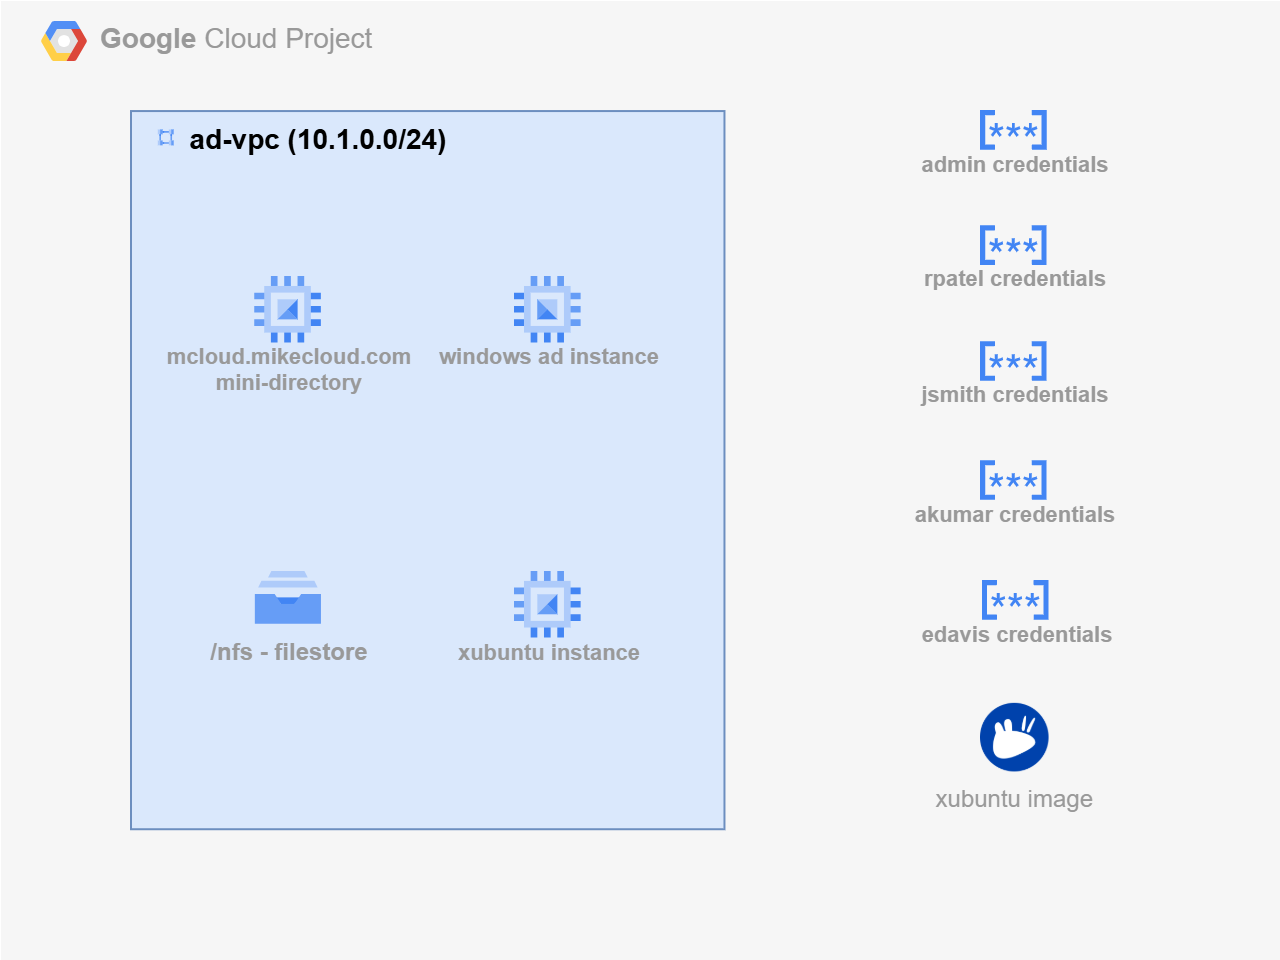
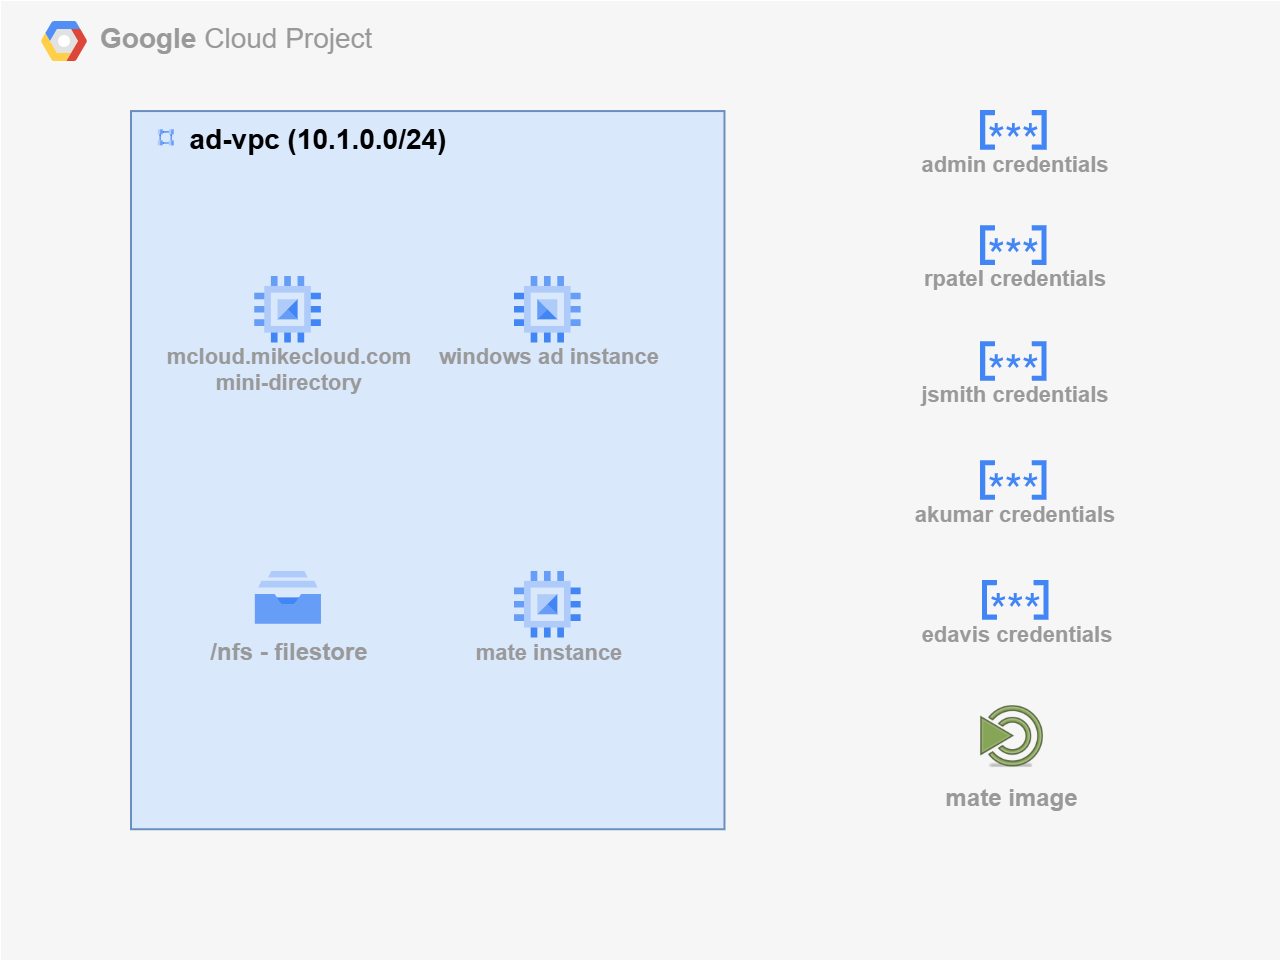
v1 of mate

Changed region(s): [[0.7188, 0.7188, 0.8438, 0.8438], [0.3438, 0.6562, 0.5, 0.6875]]

diff --git a/README.md b/README.md
@@ -1,7 +1,7 @@
-# Google Cloud Xubuntu XRDP Cloud Development Environment
+# Google Cloud MATE XRDP Cloud Development Environment
 
 This project provides a **complete cloud-based Linux desktop development environment**
-powered by **Xubuntu + XRDP**, **Mini-Active Directory**, and **Google Filestore (NFS)**
+powered by **MATE + XRDP**, **Mini-Active Directory**, and **Google Filestore (NFS)**
 on the **Google Cloud Platform (GCP)**.
 
 It is designed as a **universal dev workstation** that contains the full superset of
@@ -12,11 +12,11 @@ tools, dependencies, and configurations used across all build projects on my cha
 Instead of manually configuring a workstation for each tutorial, demo, or cloud
 project, this solution automatically provisions:
 
-1. **A Custom Xubuntu XRDP GCP Image (Packer)**
+1. **A Custom MATE XRDP GCP Image (Packer)**
    - Preloaded with Chrome, Firefox (deb), VS Code, Docker, KRDC, Postman
    - Includes all development tooling used across channel projects:
      **Packer, Terraform, Docker CLI, Azure CLI, AWS CLI v2, Google Cloud CLI**
-   - Snap-free, clean, lightweight Xfce desktop
+   - Snap-free, clean, lightweight MATE desktop
    - XRDP fully configured with all fixes, enhancements, and defaults
    - Desktop/panel icons, terminal emulator defaults, and `/etc/skel` customizations
 
@@ -25,8 +25,8 @@ project, this solution automatically provisions:
    - Domain users generated from a template with friendly passwords
    - Central authentication for Linux and Windows clients
 
-3. **Domain-Joined Xubuntu XRDP VM (Terraform)**
-   - Deploys the Xubuntu XRDP instance using the Packer-built GCP custom image
+3. **Domain-Joined MATE XRDP VM (Terraform)**
+   - Deploys the MATE XRDP instance using the Packer-built GCP custom image
    - Automatically joins the Mini-AD domain during boot
    - Ensures consistent user profiles and default settings through `/etc/skel`
 
@@ -39,7 +39,7 @@ The result is a **disposable, reproducible, cloud-hosted Linux workstation** tha
 can be used for **any build, automation, or cloud project**
 featured on the channel.
 
-![GCP diagram](gcp-xubuntu.png)
+![GCP diagram](gcp-mate.png)
 
 
 ## Prerequisites
@@ -56,8 +56,8 @@ If this is your first time watching our content, we recommend starting with this
 Clone the repository from GitHub and move into the project directory:  
 
 ```bash
-git clone https://github.com/mamonaco1973/gcp-xubuntu-xrdp.git
-cd gcp-xubuntu-xrdp
+git clone https://github.com/mamonaco1973/gcp-mate-xrdp.git
+cd gcp-mate-xrdp
 ```  
 
 ---
@@ -67,7 +67,7 @@ cd gcp-xubuntu-xrdp
 Run [check_env](check_env.sh) to validate your environment, then run [apply](apply.sh) to provision the infrastructure.  
 
 ```bash
-develop-vm:~/gcp-xubuntu-xrdp$ ./apply.sh
+develop-vm:~/gcp-mate-xrdp$ ./apply.sh
 NOTE: Validating that required commands are in PATH.
 NOTE: gcloud is found in the current PATH.
 NOTE: terraform is found in the current PATH.
@@ -84,7 +84,7 @@ When the deployment completes, the following resources are created:
 
 - **Networking**
   - A **custom-mode VPC** with dedicated subnets for the Mini-AD domain controller,
-    Filestore, and Xubuntu XRDP client VMs
+    Filestore, and MATE XRDP client VMs
   - **Firewall rules** allowing required AD/DC traffic (DNS 53, Kerberos 88,
     NTP 123, LDAP/SMB/RPC, dynamic RPC range) and **NFS (2049)** access to Filestore
     from trusted subnets
@@ -108,11 +108,11 @@ When the deployment completes, the following resources are created:
 - **Shared Storage (Google Filestore)**
   - A **Filestore instance** exporting an NFS share for user home directories
   - NFS endpoint reachable from domain-joined Linux clients
-  - Mounted on Xubuntu XRDP instances (e.g., `/home`) with consistent POSIX
+  - Mounted on MATE XRDP instances (e.g., `/home`) with consistent POSIX
     ownership and permissions
 
-- **Xubuntu XRDP Client**
-  - A **custom-image Xubuntu VM** built with Packer and deployed via Terraform
+- **MATE XRDP Client**
+  - A **custom-image MATE VM** built with Packer and deployed via Terraform
   - **Automatically joined to the Mini-AD domain** at first boot
   - XRDP fully configured for domain authentication and multi-user access
   - User home directories backed by **Filestore NFS**, ensuring persistence
@@ -181,7 +181,7 @@ Follow these steps to provision a new user in the Active Directory domain and va
    - Open **PowerShell** on the AD server.  
    - Run the script located at:  
      ```powershell
-     Z:\azure-xubuntu-xrdp\04-utils\getNextUID.bat
+     Z:\azure-mate-xrdp\04-utils\getNextUID.bat
      ```  
    - This script returns the next available **`uidNumber`** to assign to the new account.  
 
@@ -199,7 +199,7 @@ Follow these steps to provision a new user in the Active Directory domain and va
      - **us** (or other geographic/departmental group as applicable).  
 
 8. **Validate User on Linux**  
-   - Open an **AWS Systems Manager (SSM)** session to the **`xubuntu-instance`** instance.  
+   - Open an **AWS Systems Manager (SSM)** session to the **`mate-instance`** instance.  
    - Run the following command to confirm the user’s identity mapping:  
      ```bash
      id mcloud
